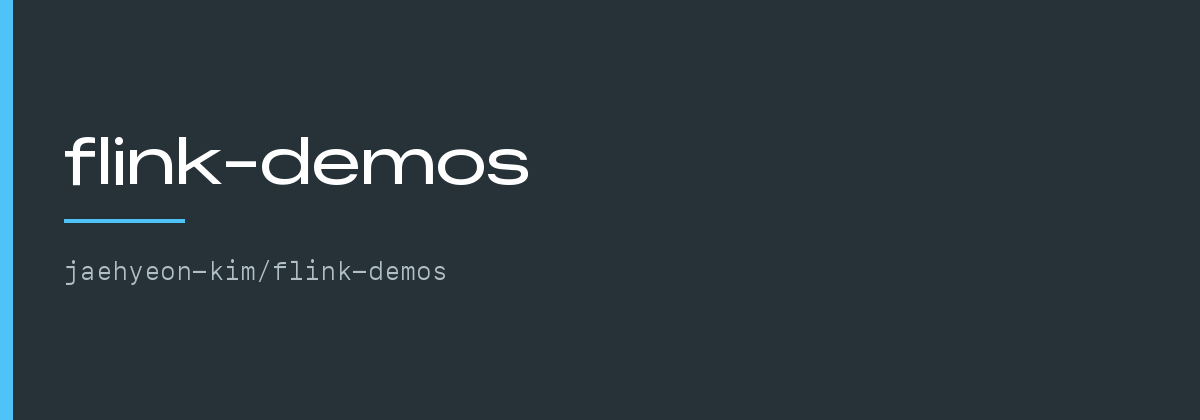
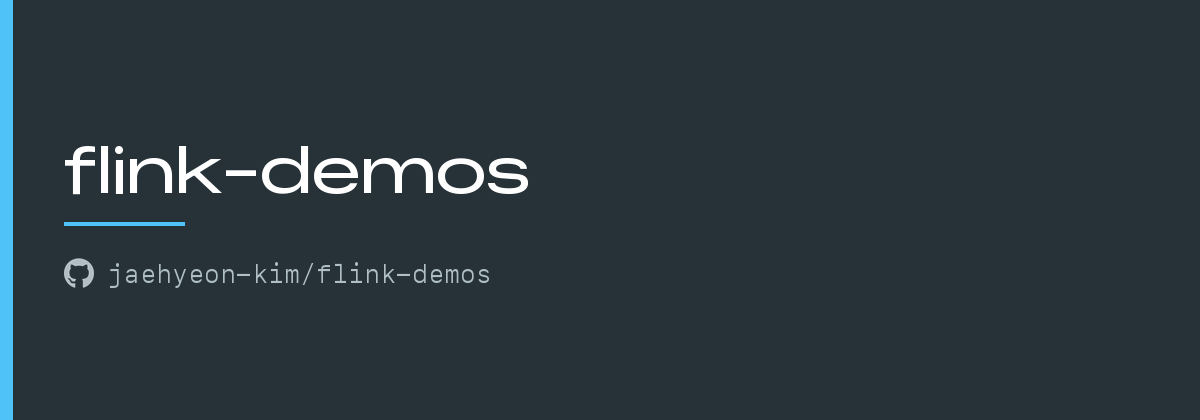
feat: fit card titles on one line, and add the GitHub mark
The longest names wrapped to two lines, so the title now shrinks from 66px
until it fits the card width. The accent rule is placed from the measured
glyph box rather than the font size, so a descender no longer touches it.

Each card gains the GitHub mark beside the owner/repo line. The mark is
rasterised once into scripts/github-mark.png from the faGithub path already
in node_modules, so the generator still needs only Pillow and fetches
nothing.

Changed region(s): [[0.0308, 0.3095, 0.4625, 0.4643], [0.0308, 0.619, 0.4008, 0.681], [0.0617, 0.4952, 0.1542, 0.5571]]

diff --git a/scripts/make-project-cards.py b/scripts/make-project-cards.py
@@ -9,6 +9,9 @@ Adding a project: add the entry to data/projects.json with an `image` field of
 "<name>.png", then run this script. Changing the look: edit the constants below
 and rerun; every card is rewritten, so they stay consistent.
 
+The GitHub mark beside the repo path is scripts/github-mark.png, committed
+beside this script, so nothing is fetched at run time.
+
 Needs Pillow only, no browser and no network. Run from the repository root:
 
     pip install pillow
@@ -17,7 +20,7 @@ Needs Pillow only, no browser and no network. Run from the repository root:
 Output goes to assets/projects/, which is committed, so a build never depends
 on this script having been run.
 """
-import json, pathlib, textwrap
+import json, pathlib
 from PIL import Image, ImageDraw, ImageFont
 
 ROOT = pathlib.Path(__file__).resolve().parent.parent
@@ -28,6 +31,8 @@ ACCENT = (79, 195, 247)    # light blue for the rule and the tag
 TITLE = (255, 255, 255)
 BODY = (176, 190, 197)     # blue-gray 200
 PAD = 64
+
+MARK = pathlib.Path(__file__).resolve().parent / "github-mark.png"
 
 SF = "/System/Library/Fonts/SFNS.ttf"
 MONO = "/System/Library/Fonts/SFNSMono.ttf"
@@ -41,24 +46,41 @@ def font(path, size, weight=None):
             pass
     return f
 
+def fit(draw, text, path, start, max_width, weight):
+    """Largest size at or below `start` that draws `text` within `max_width`."""
+    size = start
+    while size > 20:
+        f = font(path, size, weight)
+        if draw.textlength(text, font=f) <= max_width:
+            return f
+        size -= 2
+    return font(path, 20, weight)
+
+
 def main():
     OUT.mkdir(parents=True, exist_ok=True)
     projects = json.loads((ROOT / "data" / "projects.json").read_text())
-    f_title = font(SF, 66, 700)
+    mark = Image.open(MARK).convert("RGBA")
     f_tag = font(MONO, 26, 500)
     for p in projects:
         img = Image.new("RGB", (W, H), BG)
         d = ImageDraw.Draw(img)
         d.rectangle([0, 0, 12, H], fill=ACCENT)
-        lines = textwrap.wrap(p["name"], width=24)[:2]
-        y = (H - (len(lines) * 80 + 100)) // 2
-        for line in lines:
-            d.text((PAD, y), line, font=f_title, fill=TITLE)
-            y += 80
-        y += 20
+        avail = W - PAD * 2
+        f_title = fit(d, p["name"], SF, 66, avail, 700)
+        # measure the real glyph box so a descender never touches the rule
+        bbox = d.textbbox((0, 0), p["name"], font=f_title)
+        title_h = bbox[3] - bbox[1]
+        block = title_h + 44 + 34
+        y = (H - block) // 2 - bbox[1]
+        d.text((PAD, y), p["name"], font=f_title, fill=TITLE)
+        y += bbox[3] + 28
         d.line([(PAD, y), (PAD + 120, y)], fill=ACCENT, width=4)
         y += 34
-        d.text((PAD, y), p["repo"], font=f_tag, fill=BODY)
+        # GitHub mark, sized to the repo line and vertically centred on it
+        m = mark.resize((30, 30), Image.LANCZOS)
+        img.paste(m, (PAD, y + 1), m)
+        d.text((PAD + 44, y), p["repo"], font=f_tag, fill=BODY)
         out = OUT / f'{p["name"]}.png'
         img.save(out, "PNG", optimize=True)
         print(f'{out.relative_to(ROOT)}  {out.stat().st_size // 1024} KB')
